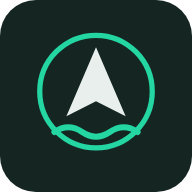
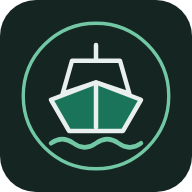
Pour kdo

Changed region(s): [[0.0938, 0.0938, 0.9062, 0.9062]]

diff --git a/index.html b/index.html
@@ -5,34 +5,34 @@
   <meta name="viewport" content="width=device-width, initial-scale=1, viewport-fit=cover">
   <meta name="theme-color" content="#152522">
   <meta name="apple-mobile-web-app-capable" content="yes">
-  <meta name="apple-mobile-web-app-title" content="Marine GPS">
+  <meta name="apple-mobile-web-app-title" content="TOMANON">
   <link rel="manifest" href="./manifest.webmanifest">
   <link rel="icon" href="./icons/app.svg" type="image/svg+xml">
   <link rel="apple-touch-icon" href="./icons/apple-touch-icon.png">
-  <title>Marine GPS</title>
+  <title>TOMANON — Compagnon de bord</title>
 
   <link
     href="./vendor/maplibre-gl/maplibre-gl.css"
     rel="stylesheet"
   />
 
-  <link rel="stylesheet" href="./css/app.css?v=1.10.0">
-  <link rel="stylesheet" href="./css/interface.css?v=1.10.0">
+  <link rel="stylesheet" href="./css/app.css?v=1.11.0">
+  <link rel="stylesheet" href="./css/interface.css?v=1.11.0">
 </head>
 
 <body>
   <dialog id="home-page" open aria-labelledby="home-title">
     <main class="home-content">
-      <div class="home-emblem" aria-hidden="true"><svg viewBox="0 0 120 120"><circle cx="60" cy="60" r="46"/><path d="M60 9v12m0 78v12M9 60h12m78 0h12M60 31l18 53-18-10-18 10z"/></svg></div>
-      <p class="home-eyebrow">VOTRE COMPAGNON EN MER</p>
-      <h1 id="home-title">Marine GPS</h1>
-      <p class="home-intro">Préparez votre sortie.<br>Retrouvez votre cap.</p>
+      <div class="home-emblem" aria-hidden="true"><svg viewBox="0 0 120 120"><circle cx="60" cy="60" r="50"/><path d="M60 24v12m-18 0h36l7 24-25-8-25 8zM27 64l33-12 33 12-13 23H40zM60 53v32M27 94q8-6 16 0t16 0t16 0t16 0"/></svg></div>
+      <p class="home-eyebrow">COMPAGNON DE BORD</p>
+      <h1 id="home-title">TOMANON</h1>
+      <p class="home-intro">Le plaisir de prendre le large.<br>Ensemble.</p>
       <div class="home-actions">
         <button id="home-map" type="button" autofocus>Ouvrir la carte <span aria-hidden="true">→</span></button>
         <button id="home-settings" type="button">Préparer ma sortie <span aria-hidden="true">›</span></button>
       </div>
       <p class="home-detail">Cartes hors ligne, météo et réglages :<br>vérifiez l’essentiel avant le départ.</p>
-      <footer>Vos routes et traces restent sur cet appareil.</footer>
+      <footer><p class="home-gift">Pour nos prochaines sorties en mer.<br><strong>Joyeux Noël, Papa.</strong></p><p>Vos routes et traces restent sur cet appareil.</p></footer>
     </main>
   </dialog>
   <div id="map"></div>
@@ -276,7 +276,7 @@
     <button id="open-offline-maps" class="primary-action" type="button">Cartes hors ligne</button>
     <button id="install-app" class="primary-action" type="button" hidden>Installer l’application</button>
     <p id="install-instructions"></p>
-    <p id="offline-update" hidden>Une mise à jour est prête. Elle sera appliquée après fermeture de tous les onglets et fenêtres Marine GPS.</p>
+    <p id="offline-update" hidden>Une mise à jour est prête. Elle sera appliquée après fermeture de tous les onglets et fenêtres TOMANON.</p>
     <p>Avant le départ, attendez « Application prête hors connexion », puis testez une fermeture et une réouverture sans réseau. L’effacement des données du navigateur retire les sauvegardes locales et la préparation hors ligne.</p>
   </dialog>
 
@@ -402,6 +402,6 @@
     <p>Conservez cette page ouverte pendant le téléchargement. Testez la zone en mode avion avant le départ. Le navigateur peut effacer les cartes en cas de manque de place ; vos exports GPX restent indispensables.</p>
   </dialog>
 
-  <script type="module" src="./js/app.js?v=1.10.0"></script>
+  <script type="module" src="./js/app.js?v=1.11.0"></script>
 </body>
 </html>

diff --git a/css/interface.css b/css/interface.css
@@ -197,3 +197,11 @@ body.night-mode #home-page { background: radial-gradient(ellipse at 90% 0%, #173
 #departure-route { display: block; width: 100%; margin-top: 8px; padding: 10px; }
 #departure-preview { width: 100%; height: 180px; background: var(--cell); border: 1px solid var(--line); border-radius: 16px; }
 #departure-preview[hidden] { display: none; }
+
+.home-content .home-gift { margin: 0 0 18px; font-size: 13px; line-height: 1.65; color: var(--muted); }
+.home-gift strong { color: var(--tint); font-weight: 600; }
+@media (max-height: 700px) {
+  .home-emblem { width: 88px; height: 88px; margin-bottom: 16px; }
+  .home-intro { margin-bottom: 24px; }
+  .home-detail { margin-bottom: 24px; }
+}

diff --git a/js/app.js b/js/app.js
@@ -7,7 +7,7 @@ import { initializePwa } from './pwa.js';
 import { initializeOfflineMaps } from './offline-maps-ui.js';
 import { startWatching, stopWatching, isFreshPosition, isUsablePosition } from './gps.js';
 import { computeRouteNavigation, advanceNavigation } from './navigation.mjs';
-import { initializeMap } from './map.js?v=1.10.0';
+import { initializeMap } from './map.js?v=1.11.0';
 import {
   addTrackPoint,
   interruptTracking,

diff --git a/sw.js b/sw.js
@@ -1,6 +1,6 @@
 // Bump the release whenever a precached file changes. Updates wait until all
 // existing app windows close; never reload an active navigation session.
-const RELEASE = '1.10.0';
+const RELEASE = '1.11.0';
 const CACHE_PREFIX = `marine-gps-shell-${encodeURIComponent(self.registration.scope)}-`;
 const CACHE_NAME = `${CACHE_PREFIX}${RELEASE}`;
 const FILES = [

diff --git a/README.md b/README.md
@@ -325,3 +325,12 @@ couvertes. Le calcul suit les segments droits de la carte en projection Mercator
 Les passages du méridien ±180° et les latitudes au-delà de 85° sont signalés comme
 non vérifiables. Le contrôle porte sur les emprises téléchargées, sans garantie
 de présence de chaque tuile, de détail suffisant ou de sécurité de la route.
+
+## Édition TOMANON
+
+L’accueil, le titre et le nom d’installation Android sont personnalisés pour
+TOMANON — Compagnon de bord, avec un emblème de bateau et un message de Noël.
+Le manifeste conserve son identifiant et son périmètre pour préserver la même
+installation. Les clés de stockage restent inchangées : les routes, traces,
+repères et réglages existants sont conservés. Les icônes PNG sont déclinées
+depuis `icons/app.svg` (192, 512 et 180 pixels).
